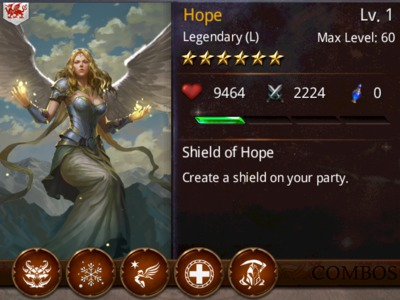
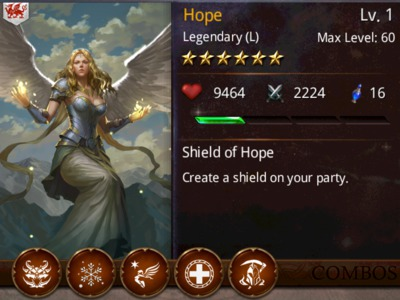
Update card photos

diff --git a/cards.js b/cards.js
@@ -5,7 +5,7 @@ var cards = [
   new Card("Alpha Stag", "Druid", 3, 7, 30, 2611, 846, ["Stag Herder","Wild Pack","Blessed Stag Rider","Druid Warband","Stag Pack",]),
   new Card("Amythestine", "Druid", 5, 18, 50, 6754, 2105, ["Umbral Spirits",]),
   new Card("Ancient Archelon", "Druid", 5, "", 50, 8131, 2436, ["Behemoths","Goliaths",]),
-  new Card("Angel of Law", "Camelot", 5, "", 50, 7740, 1863, ["Merciful Angels","Blessings of Fate",]),
+  new Card("Angel of Law", "Camelot", 5, 19, 50, 7740, 1863, ["Merciful Angels","Blessings of Fate",]),
   new Card("Angela", "Camelot", 5, "", 50, 7192, 2236, ["Polar",]),
   new Card("Apprentice", "Camelot", 1, 4, 10, 1200, 285, ["Noobs",]),
   new Card("Arabel the True", "Camelot", 4, 12, 40, 5670, 1370, ["Celestials","Twin Sisters",]),
@@ -86,7 +86,7 @@ var cards = [
   new Card("Guinevere", "Camelot", 4, "", 40, 4680, 1144, ["Female Legends",]),
   new Card("Heavy Swordsman", "Camelot", 3, "", 30, 4060, 1020, ["Bruisers",]),
   new Card("Highlander", "Camelot", 5, "", 50, 7685, 2608, ["Mercenaries","King Size Weapons","Hired Steel",]),
-  new Card("Hope", "Camelot", 6, "", 60, 9464, 2224, ["2013 All Stars","Polar","Merciful Angels","Blessings of Fate","Opposite Ends",]),
+  new Card("Hope", "Camelot", 6, 16, 60, 9464, 2224, ["2013 All Stars","Polar","Merciful Angels","Blessings of Fate","Opposite Ends",]),
   new Card("Horn of Broceliande", "Druid", 5, "", 50, 7879, 2269, ["Martial Music","Tribal Fury",]),
   new Card("Hunter", "Camelot", 1, 5, 10, 1500, 360, []),
   new Card("Huscarl", "Camelot", 4, 15, 50, 4785, 1780, ["Mercenaries","Hired Steel",]),
@@ -103,7 +103,7 @@ var cards = [
   new Card("Knight", "Camelot", 2, 7, 20, 2420, 580, ["Soldiers",]),
   new Card("Knight of the Rose", "Camelot", 5, 16, 50, 8265, 2144, ["Romantic Knights",]),
   new Card("Lady of the Lake", "Camelot", 5, 14, 50, 7036, 1694, ["Divine Ladies","Female Legends","Blessings of Fate",]),
-  new Card("Lapis Knight", "Camelot", 6, "", 60, 11003, 3504, ["Crack Knights",]),
+  new Card("Lapis Knight", "Camelot", 6, 23, 60, 11003, 3504, ["Crack Knights",]),
   new Card("Longbowman", "Camelot", 2, 6, 20, 2070, 500, ["Marksmen",]),
   new Card("Lord Stonebrand", "Druid", 4, "", 40, 5301, 2105, ["Rock and Troll",]),
   new Card("Lyrist", "Camelot", 5, "", 50, 7213, 2050, ["Merciful Angels","Martial Music",]),
